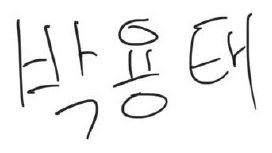
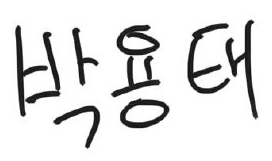
Replace groom handwritten name image

diff --git a/invitation.html b/invitation.html
@@ -441,7 +441,7 @@
       <div class="invite-names gsap-text">
         <div class="invite-signature-line" aria-label="신랑 박용태, 신부 나수진">
           <span class="invite-role">신랑</span>
-          <img class="invite-signature" src="assets/박용태_필기체.png" alt="박용태" />
+          <img class="invite-signature" src="assets/박용태_필기체.png?v=20260826-yongtae2" alt="박용태" />
           <span aria-hidden="true">·</span>
           <span class="invite-role">신부</span>
           <img class="invite-signature" src="assets/나수진_필기체.png?v=20260826-sujin2" alt="나수진" />
